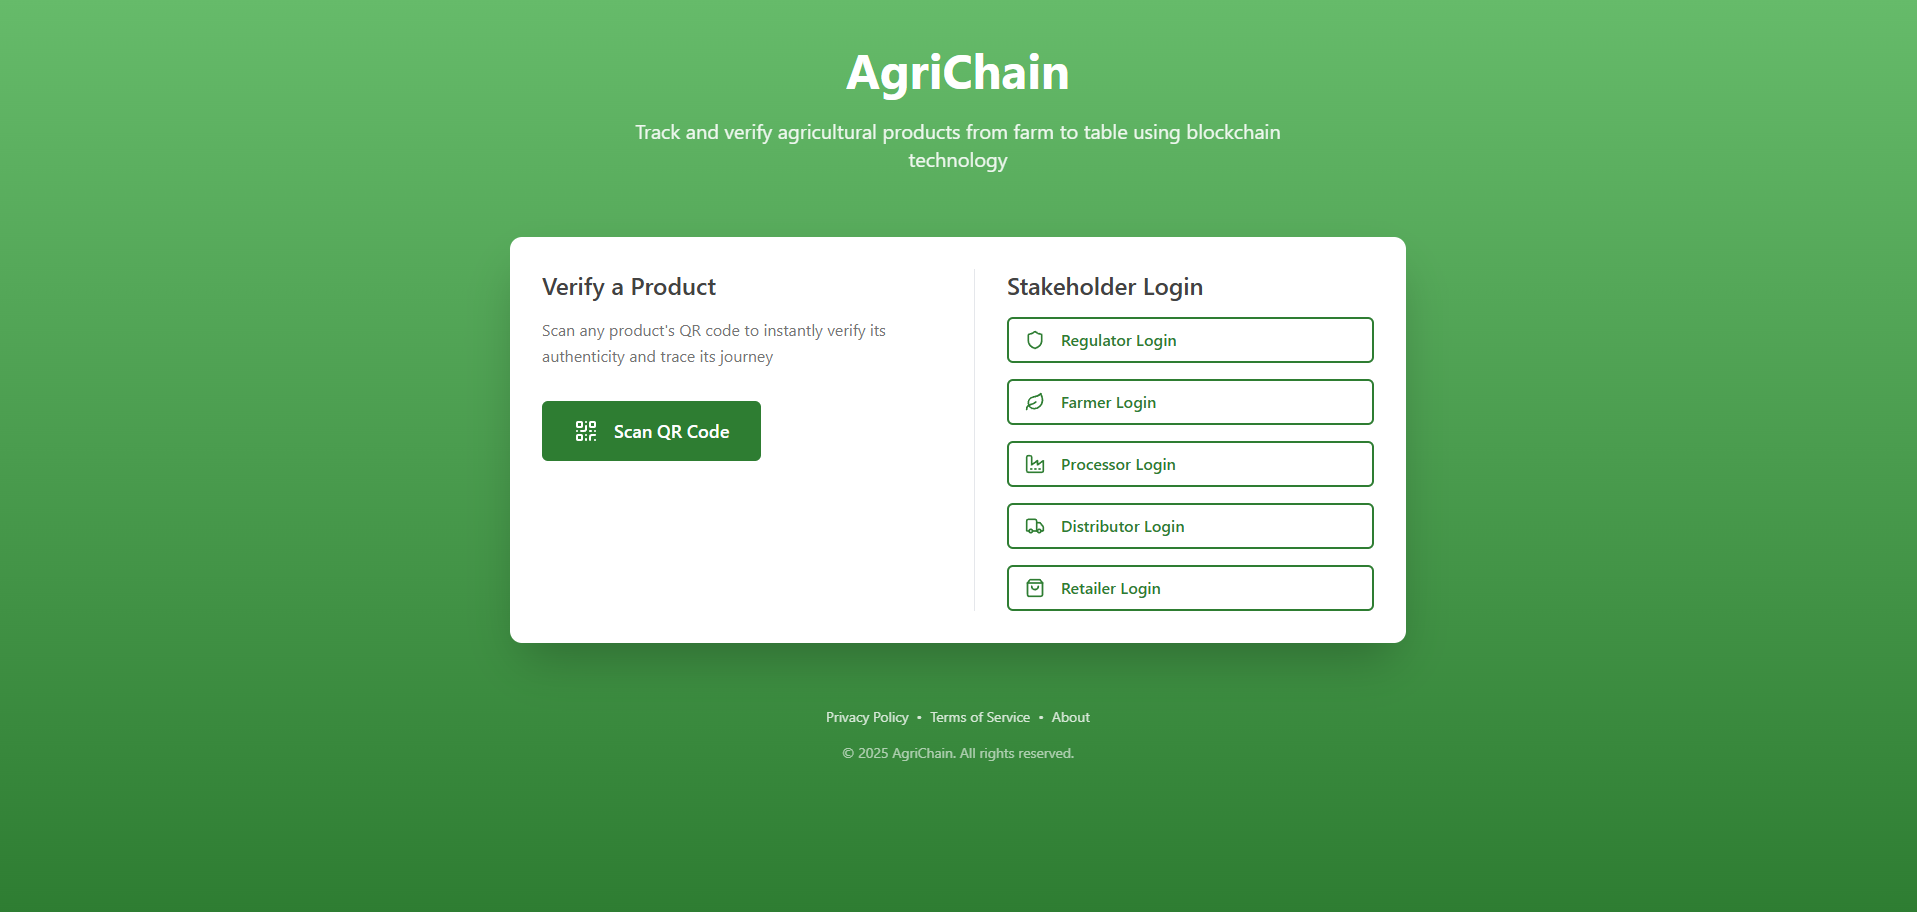
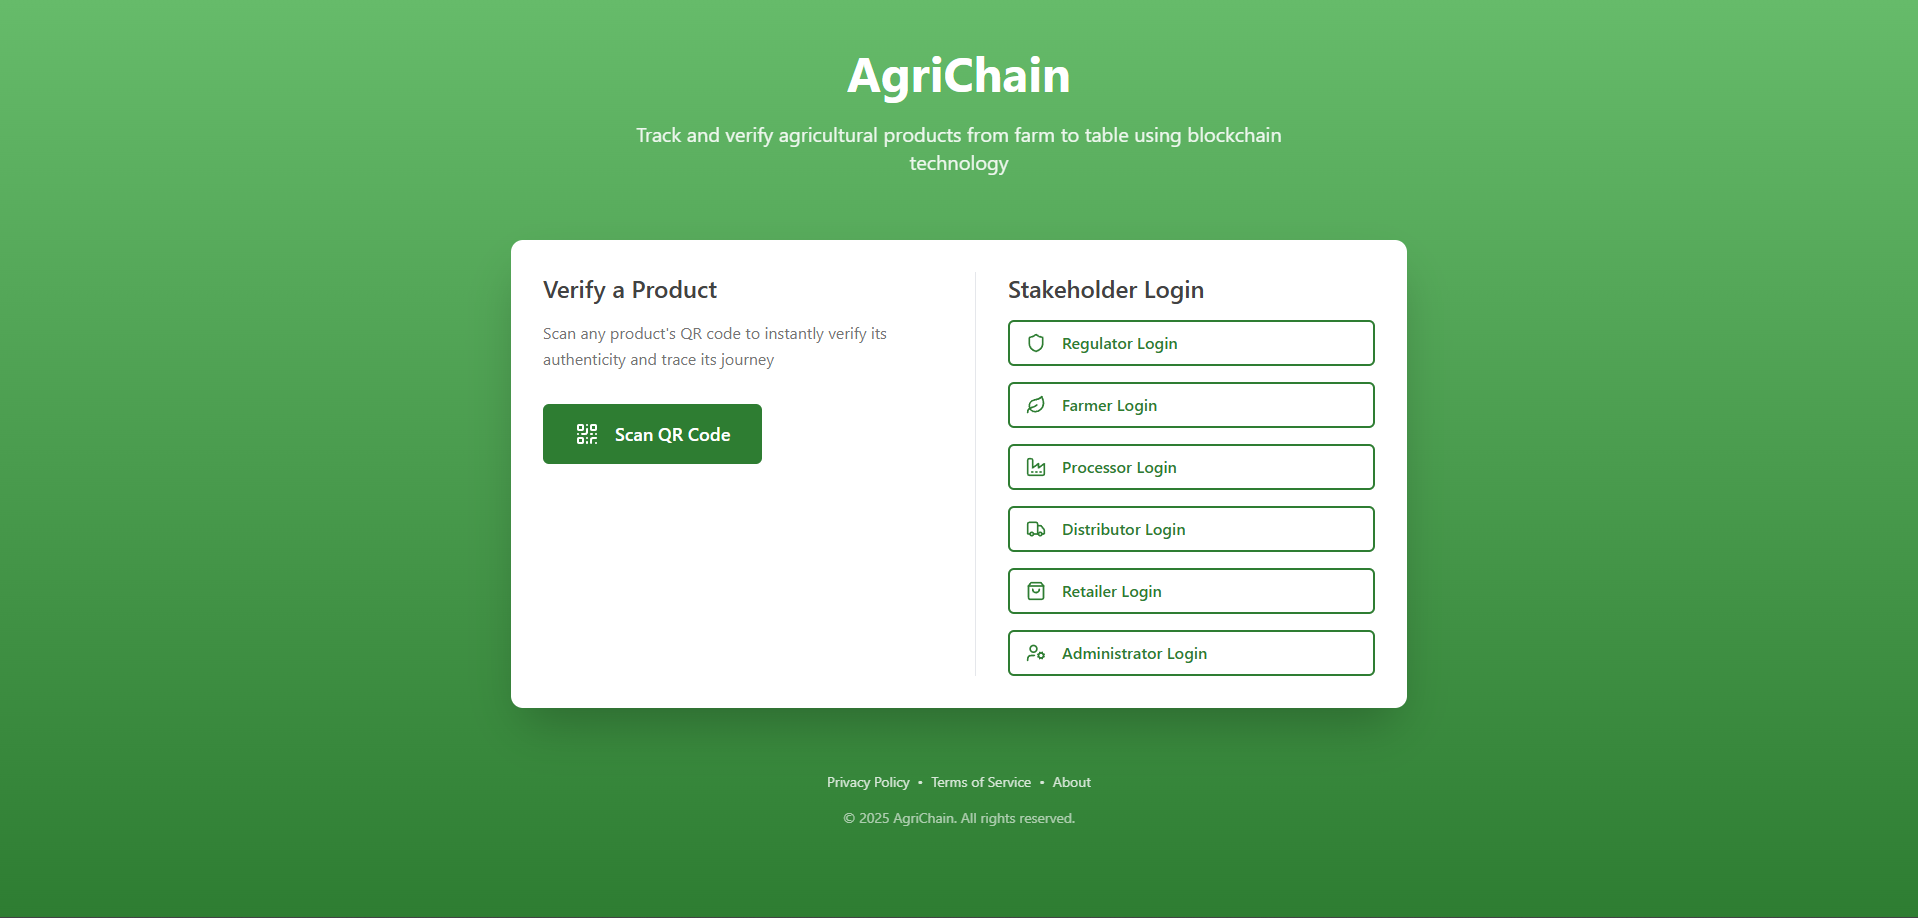
added administrator dashboard

diff --git a/agrichain-frontend-react/agrichain-frontend/src/pages/AdministratorDashboard.tsx b/agrichain-frontend-react/agrichain-frontend/src/pages/AdministratorDashboard.tsx
@@ -1,0 +1,26 @@
+import React from 'react';
+import Layout from '../components/layout/Layout';
+import { UserCog } from 'lucide-react';
+
+const AdministratorDashboard: React.FC = () => {
+    return (
+        <Layout user={{ name: 'Administrator', role: 'administrator' }}>
+            <div className="container mx-auto px-4 py-8">
+                <header className="mb-8">
+                    <h1 className="text-3xl font-semibold mb-2">Administrator Dashboard</h1>
+                    <p className="text-neutral-600">Manage products or accounts</p>
+                </header>
+
+                <div className="card">
+                    <div className="flex items-center justify-between mb-6">
+                        <h2 className="text-xl font-semibold">Recent Activities</h2>
+                        <UserCog className="h-6 w-6 text-primary" />
+                    </div>
+                    <p className="text-neutral-600">No recent activities</p>
+                </div>
+            </div>
+        </Layout>
+    );
+};
+
+export default AdministratorDashboard;

diff --git a/agrichain-frontend-react/agrichain-frontend/src/pages/Homepage.tsx b/agrichain-frontend-react/agrichain-frontend/src/pages/Homepage.tsx
@@ -1,5 +1,5 @@
 import React from 'react';
-import { QrCode, Shield, Leaf, Factory, Truck, ShoppingBag } from 'lucide-react';
+import { QrCode, Shield, Leaf, Factory, Truck, ShoppingBag, UserCog } from 'lucide-react';
 import { Link, useNavigate } from 'react-router-dom';
 
 const Homepage: React.FC = () => {
@@ -72,6 +72,13 @@ const Homepage: React.FC = () => {
                                 >
                                     <ShoppingBag className="h-5 w-5 mr-2" />
                                     Retailer Login
+                                </button>
+                                <button
+                                    onClick={() => navigate('/auth/admin')}
+                                    className="btn btn-outline w-full justify-start"
+                                >
+                                    <UserCog className="h-5 w-5 mr-2" />
+                                    Administrator Login
                                 </button>
                             </div>
                         </div>

diff --git a/agrichain-frontend-react/agrichain-frontend/src/App.tsx b/agrichain-frontend-react/agrichain-frontend/src/App.tsx
@@ -8,6 +8,7 @@ import FarmerDashboard from './pages/FarmerDashboard';
 import ProcessorDashboard from './pages/ProcessorDashboard';
 import DistributorDashboard from './pages/DistributorDashboard';
 import RetailerDashboard from './pages/RetailerDashboard';
+import AdministratorDashboard from "./pages/AdministratorDashboard.tsx";
 import Auth from './pages/Auth';
 import { UserRole } from './types';
 
@@ -32,6 +33,8 @@ function App() {
                 return <DistributorDashboard />;
             case 'retailer':
                 return <RetailerDashboard />;
+            case 'admin':
+                return <AdministratorDashboard />;
             default:
                 return <Navigate to="/" />;
         }
